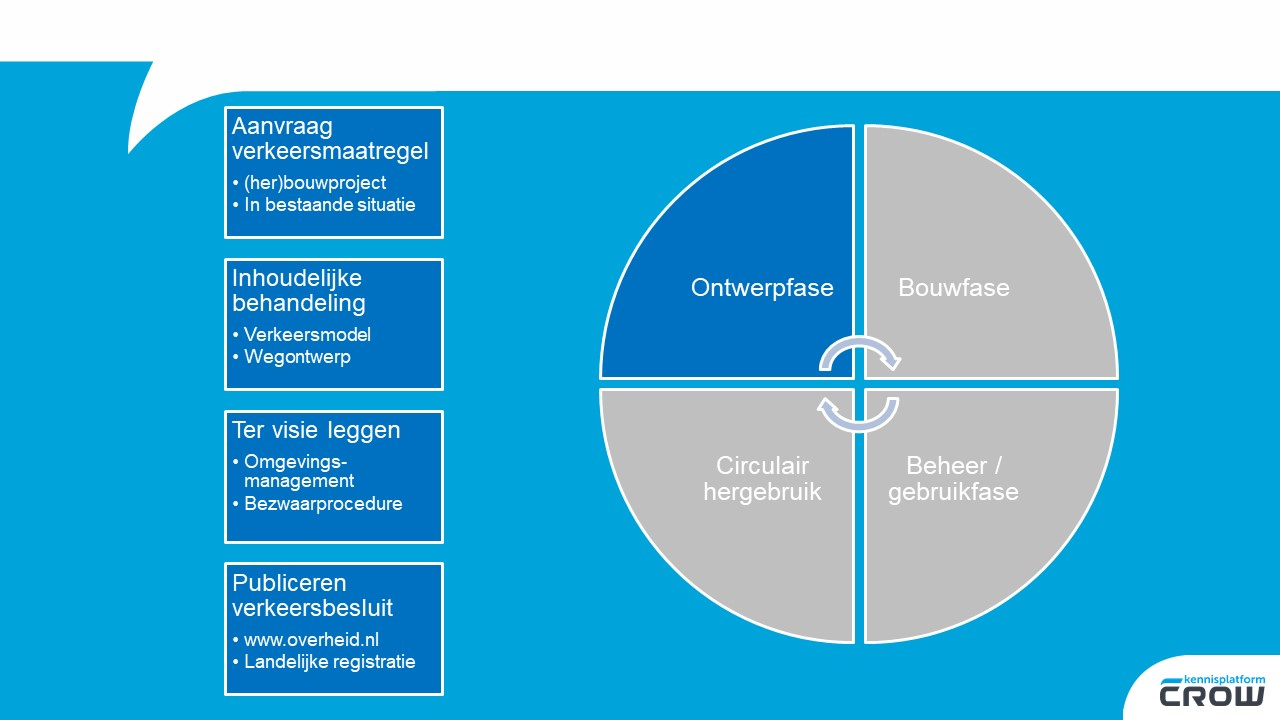
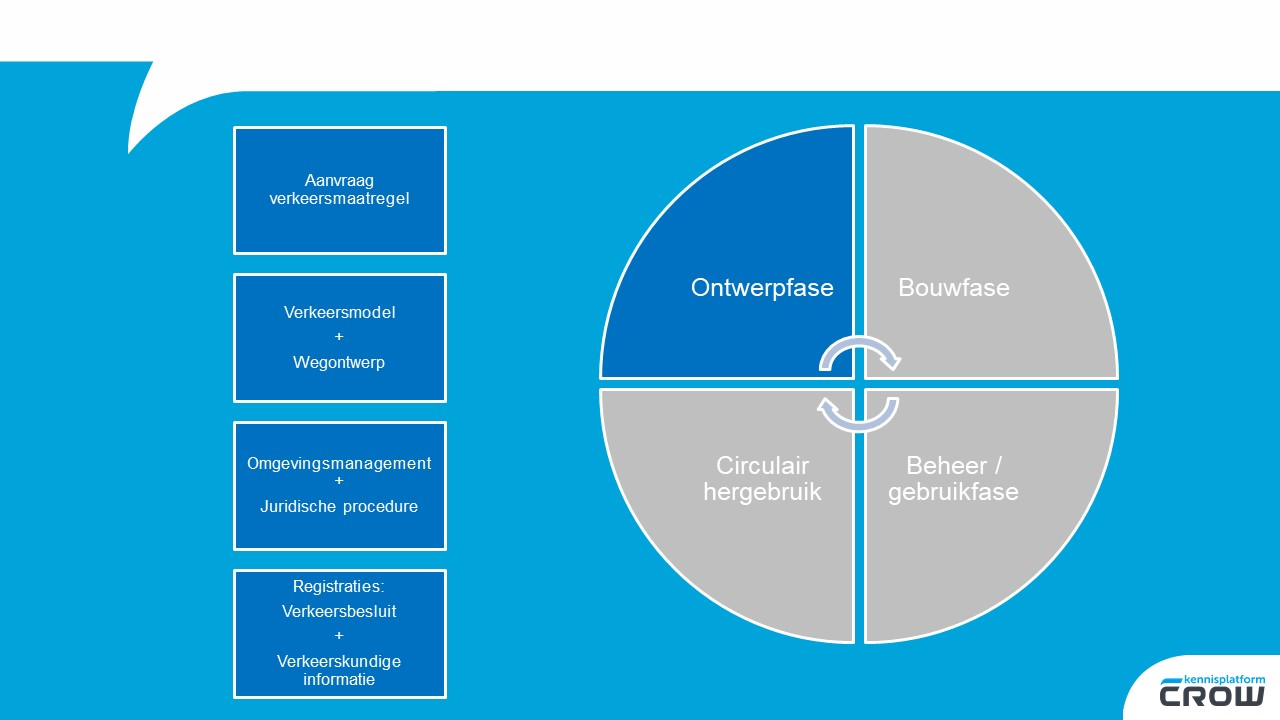
update architectuurframework

Changed region(s): [[0.1562, 0.1222, 0.375, 0.9778]]

diff --git a/docs/framework/config.js b/docs/framework/config.js
@@ -80,7 +80,7 @@ var respecConfig = {
   specStatus: "DRAFT",
   pubDomain: "verkeersborden",
   shortName: "framework",
-  subtitle: "Uitgangspunten, use-case en architectuurframework",
+  subtitle: "Use-case, inhoudelijke en technische uitgangspunten",
   editors: [
     {
       name: "Elisabeth Klören",

diff --git a/docs/framework/hoofdstukken/inleiding.md b/docs/framework/hoofdstukken/inleiding.md
@@ -6,14 +6,12 @@ Het Ministerie van Infrastructuur en Waterstaat heeft CROW gevraagd om een [=Inf
 
 ### Context
 
-<dfn data-lt="Data Top 15">Data Top 15</dfn>
-<dd>In het landelijke programma 'Digitalisering Overheden' werkt het Ministerie van Infrastructuur en Waterstaat met vijf landsdelen samen om er voor te zorgen dat in 2030 alle wegbeheerders 'digitaal capabel in mobiliteit' zijn. Hiervoor is een Data Top 15 opgesteld, met onder andere maximumsnelheden, verkeersborden en andere datasets. https://www.datapedia.nl/ </dd>
-
-Het Ministerie van Infrastructuur en Waterstaat heeft in 2021 rondom [=verkeerskundige informatie=] meeerdere digitaliseringstrajecten lopen: 
+Het Ministerie van Infrastructuur en Waterstaat heeft in 2021 rondom [=verkeerskundige informatie=] meerdere digitaliseringstrajecten en samenwerkingsverbanden lopen: 
 
 1. In het [=Programma Netwerkregistraties=] wordt samen met het [=NDW=] gewerkt aan het uitbreiden van het [=Nationaal Wegen Bestand=] voor het wegennetwerk en de bijgehorende verkeerskundige situatie 
 2. In het [=Programma Netwerkregistraties=] wordt samen met [=KOOP=] gewerkt aan het uitbreiden van een [=verkeersbesluiten applicatie=] waarmee wegbeheerders hun [=verkeersbesluit=] kunnen publiceren als digitale [=verkeerskundige informatie=]
 3. Samen met [=BIM loket=] wordt gewerkt aan het uitbreiden van NLCS met netwerkinformatie en verkeersborden om het verkeerskundige CAD-ontwerp beter te kunnen overdragen naar digitale [=verkeerskundige informatie=] voor invoer in het [=Nationaal Wegen Bestand=].
+4. In het landelijke programma 'Digitalisering Overheden' werkt het Ministerie van Infrastructuur en Waterstaat met vijf landsdelen samen om er voor te zorgen dat in 2030 alle wegbeheerders 'digitaal capabel in mobiliteit' zijn. Hiervoor is een [=Data Top 15=] opgesteld, met onder andere maximumsnelheden, verkeersborden en andere datasets.
 
 Alle trajecten lopen tegen de uitdaging aan dat er meerdere bestanden zijn voor verkeersborden en dat deze bestanden ook nog eens zijn opgesteld vanuit verschillende contexten. Om uiteindelijk richting een goede sectorregistratie van [=verkeerskundige informatie=] toe te kunnen werken is een [=Informatiemodel Verkeerstekens=] essentieel. 
 
@@ -29,7 +27,7 @@ Onderstaande afbeelding geeft aan wat het toekomstbeeld is voor het voorbeeld va
 
 ### Informatiebehoefte
 
-Het [=Informatiemodel Verkeerstekens=] is primair bedoeld om de informatiebehoefte vanuit [=SMART Mobility=] vast te leggen.  Vanuit Smart Mobility is behoefte aan accurate en actuele informatie, waarin voor het wegennet de wettelijke maximum snelheid en ge- en verboden (bijvoorbeeld parkeerverbod, inhaalverbod, stopverbod) per voertuigcategorie en met de daarbij geldende uitzonderingen/nadere aanduidingen op het onderbord (tijden, alleen bij glad wegdek, etc.) gevuld zijn voor ieder individueel wegvak of zelfs nog nauwkeuriger, per rijstrook en richting. Zodat een rij-assistent of navigatie-assistent de [=weggebruiker=] op het juiste moment kan informeren over het juiste gebruik van de weg, of een autonoom rijdend voertuig deze informatie kan gebruiken. 
+Het [=Informatiemodel Verkeerstekens=] is primair bedoeld om de informatiebehoefte vanuit [=SMART Mobility=] vast te leggen.  Vanuit [=Smart Mobility=] is behoefte aan accurate en actuele informatie, waarin voor het wegennet de wettelijke maximum snelheid en ge- en verboden (bijvoorbeeld parkeerverbod, inhaalverbod, stopverbod) per voertuigcategorie en met de daarbij geldende uitzonderingen/nadere aanduidingen op het onderbord (tijden, alleen bij glad wegdek, etc.) gevuld zijn voor ieder individueel wegvak of zelfs nog nauwkeuriger, per [=rijstrook=] en rijrichting. Zodat een rij-assistent of navigatie-assistent de [=weggebruiker=] op het juiste moment kan informeren over het juiste gebruik van de weg, of een autonoom rijdend voertuig deze informatie kan gebruiken. 
 
 <dfn data-lt="verkeerskundige informatie">Verkeerskundige informatie</dfn>
 <dd>Informatie over de op een weg geldende [=verkeersregels=], [=waarschuwingen=] en [=adviessnelheden=] en de bijbehorende [=verkeerstekens=].</dd>
@@ -96,7 +94,7 @@ Dit document beschrijft de uitgangspunten en use case voor een nationaal [=Infor
 
 Dit document beschrijft de volgende zaken: 
 
-**2. Scope** Beschrijft de scope van de [=verkeerskundige informatie=] in het[=Informatiemodel Verkeerstekens=]
+**2. Scope** Beschrijft de inhoudelijke scope van de [=verkeerskundige informatie=] in het [=Informatiemodel Verkeerstekens=]
 
 **3. Use case** De use case geeft een weergave van het verwachte gebruik van de digitale [=verkeerskundige informatie=] door een [=SMART Mobility=] systeem van een [=weggebruiker=]. Hieruit volgen eisen voor het [=Informatiemodel Verkeerstekens=].
 

diff --git a/docs/framework/hoofdstukken/scope.md b/docs/framework/hoofdstukken/scope.md
@@ -175,18 +175,32 @@ In het wegontwerp worden zaken onderzocht die niet altijd op een ontwerptekening
 <div class="issue" data-number="136"></div>
 
 
-### Juridisch
-
-**Buiten scope** zijn de metadata over de juridische procedure van het [=verkeersbesluit=] bij de verkeersregel.
-
-### Wijzigingen
-
-Als steeds de actuele verkeerskundige informatie gepubliceerd wordt, moeten wijzigingen door de wegbeheerder aan het publicatieplatform worden aangeboden. 
+### Procedure verkeersbesluit
 
 **Buiten scope** zijn:
-* De metadata over de transactie bij registratie en validatie van wijzigingen in de [=verkeerskundige informatie=]. 
+* De metadata over de juridische procedure van het [=verkeersbesluit=] bij de verkeersregel.
+* De inhoud van de juiridische procedure.
+
+### Informatieleveringsspecificatie
+Als steeds de actuele verkeerskundige informatie gepubliceerd wordt, moeten wijzigingen door de wegbeheerder aan het publicatieplatform worden aangeboden. De wegbeheerder heeft voor het aanleveren van een wijziging in de [=verkeerskundige informatie=] een "Informatieleveringsspecificatie" nodig en moet kunnen aantonen dat de aangeboden data hieraan voldoet. 
+
+**buiten scope** zijn:
 * De informatieleveringsspecificatie voor een te leveren dataset met wijzigingen.
 * Een validatierapport of de kwaliteitstoets bij de dataset.
+
+<aside class="note" title="Informatieleveringsspecificatie">
+In een Informatieleveringsspecificatie staat:<ul>
+<li>Welke informatie minimaal verplicht is uit het [=Informatiemodel Verkeerstekens=] of het model van het verkeersnetwerk. </li>
+<li>Welke informatie mag worden toegevoegd uit het [=Informatiemodel Verkeerstekens=] of het model van het verkeersnetwerk. </li>
+<li>In welk formaat of welke taal de wijziging kan worden aangeleverd</li>
+<li>Of informatie mag worden toegevoegd uit een eigen informatiemodel</li> </ul> 
+</aside> 
+
+
+### Transactie
+Als steeds de actuele verkeerskundige informatie gepubliceerd wordt, moeten wijzigingen door de wegbeheerder aan het publicatieplatform worden aangeboden. De wegbeheerder moet hiervoor een wijzigingstransactie starten.
+
+De metadata over de transactie bij registratie en validatie van wijzigingen in de [=verkeerskundige informatie=] zijn **buiten scope**
 
 <aside class="note" title="Transactie bij een datalevering">
 Een hapy flow van een transactie is bijvoorbeeld als volgt:
@@ -200,15 +214,6 @@ Een hapy flow van een transactie is bijvoorbeeld als volgt:
 Daarnaast is voor een transactie een "Aanleverinstructie" nodig waarin staat:
 - Hoe een wijziging kan worden aangeleverd: via VISI, een website, via een API, met adressering van de afnemer en het te volgen transactieprotocol
 </aside> 
-
-<aside class="note" title="Informatieleveringsspecificatie">
-De wegbeheerder heeft voor het aanleveren van een wijziging in de [=verkeerskundige informatie=] een "Informatieleveringsspecificatie" nodig. In een Informatieleveringsspecificatie staat:<ul>
-<li>Welke informatie minimaal verplicht is uit het [=Informatiemodel Verkeerstekens=] of het model van het verkeersnetwerk. </li>
-<li>Welke informatie mag worden toegevoegd uit het [=Informatiemodel Verkeerstekens=] of het model van het verkeersnetwerk. </li>
-<li>In welk formaat of welke taal de wijziging kan worden aangeleverd</li>
-<li>Of informatie mag worden toegevoegd uit een eigen informatiemodel</li> </ul> 
-</aside> 
-
 
 
 

diff --git a/docs/framework/hoofdstukken/raakvlakanalyse.md b/docs/framework/hoofdstukken/raakvlakanalyse.md
@@ -28,6 +28,8 @@ Het BIM loket beheert in dit kader deze BIM relevante standaarden:
 * [=NLCS=]
 * [=CB-NL=]
 
+Het BIM loket werkt nauw samen met [=DigiGO=].
+
 **Raakvlaktype: Gezamenlijk beheer**
 
 Wegbeheerders hebben te maken met een hele keten aan samenwerkingspartners en toeleveranciers, die informatie moeten uitwisselen. Daarom zal het informatiemodel moeten passen bij de BIM standaarden. In het ideale geval vindt gezamenlijk beheer plaats om standaarden op elkaar te laten aansluiten. 
@@ -339,7 +341,9 @@ Daarbij gelden momenteel de volgende regels:
 
 ### Data Top 15
 
-In het [=Programma Digitalisering Overheden=] is een Data Top 15 opgesteld, met onder andere maximumsnelheden, verkeersborden en andere datasets.
+<dfn data-lt="Data Top 15">Data Top 15</dfn>
+<dd>In het landelijke programma 'Digitalisering Overheden' werkt het Ministerie van Infrastructuur en Waterstaat met vijf landsdelen samen om er voor te zorgen dat in 2030 alle wegbeheerders 'digitaal capabel in mobiliteit' zijn. Hiervoor is een Data Top 15 opgesteld, met onder andere maximumsnelheden, verkeersborden en andere datasets. https://www.datapedia.nl/ </dd>
+
 De Data Top 15 verwijst weer door naar andere programma's waarbinnen deze data wordt gepubliceerd, en naar data.overheid.nl waar individuele beheerorganisaties waaronder Rijkswaterstaat eigen data publiceren. In deze bronnen zitten dubbelingen met de gegevens die in de landelijke netwerkregistratie zullen worden opgenomen.</dd>
 
 **Raakvlaktype: Buiten scope** Potentieel gebruik informatiemodel.

diff --git a/docs/framework/hoofdstukken/samenvatting.md b/docs/framework/hoofdstukken/samenvatting.md
@@ -1,4 +1,4 @@
-Dit document beschrijft de uitgangspunten voor een "Informatiemodel verkeerstekens" waarmee [=Verkeerskundige informatie=] kan worden gepubliceerd ten behoeve van SMART Mobility (o.a. navigatiesystemen) en wegbeheer. Wegbeheerders en verkeerskundigen kunnen met het informatiemodel [=Verkeerskundige informatie=] publiceren, voor tijdelijke en permanente situaties. 
+Dit document beschrijft de use-case, inhoudelijke en technische uitgangspunten voor een "Informatiemodel verkeerstekens" waarmee [=Verkeerskundige informatie=] kan worden gepubliceerd ten behoeve van SMART Mobility (o.a. navigatiesystemen) en wegbeheer. Wegbeheerders en verkeerskundigen kunnen met het informatiemodel [=Verkeerskundige informatie=] publiceren, voor tijdelijke en permanente situaties. 
 
 <dfn data-lt="Informatiemodel verkeerstekens">Informatiemodel verkeerstekens</dfn>
 <dd> Een informatiemodel waarmee <b>[=verkeersregels=], [=waarschuwingen=], [=adviessnelheden=] en verkeersborden</b> op eenduidige manier digitaal gepubliceerd kunnen worden in relatie tot het wegennetwerk, <b>zodat deze informatie machine-verwerkbaar is</b>. </dd>
